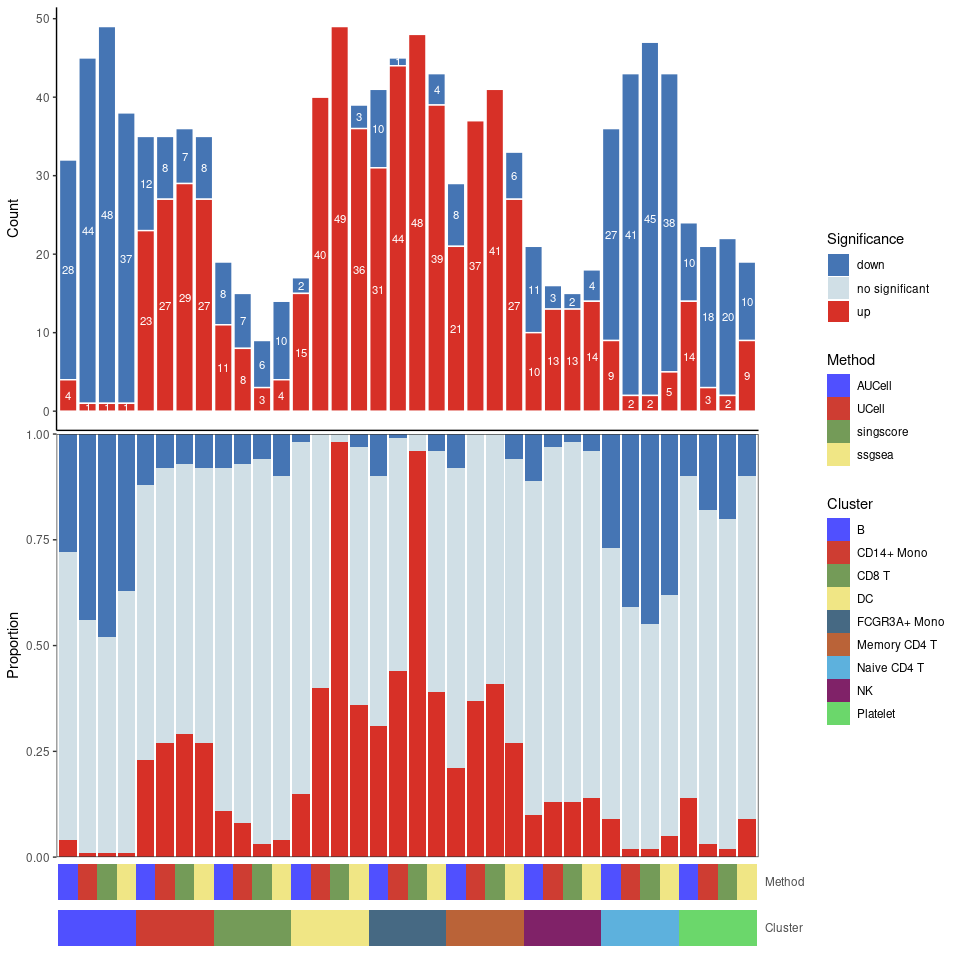
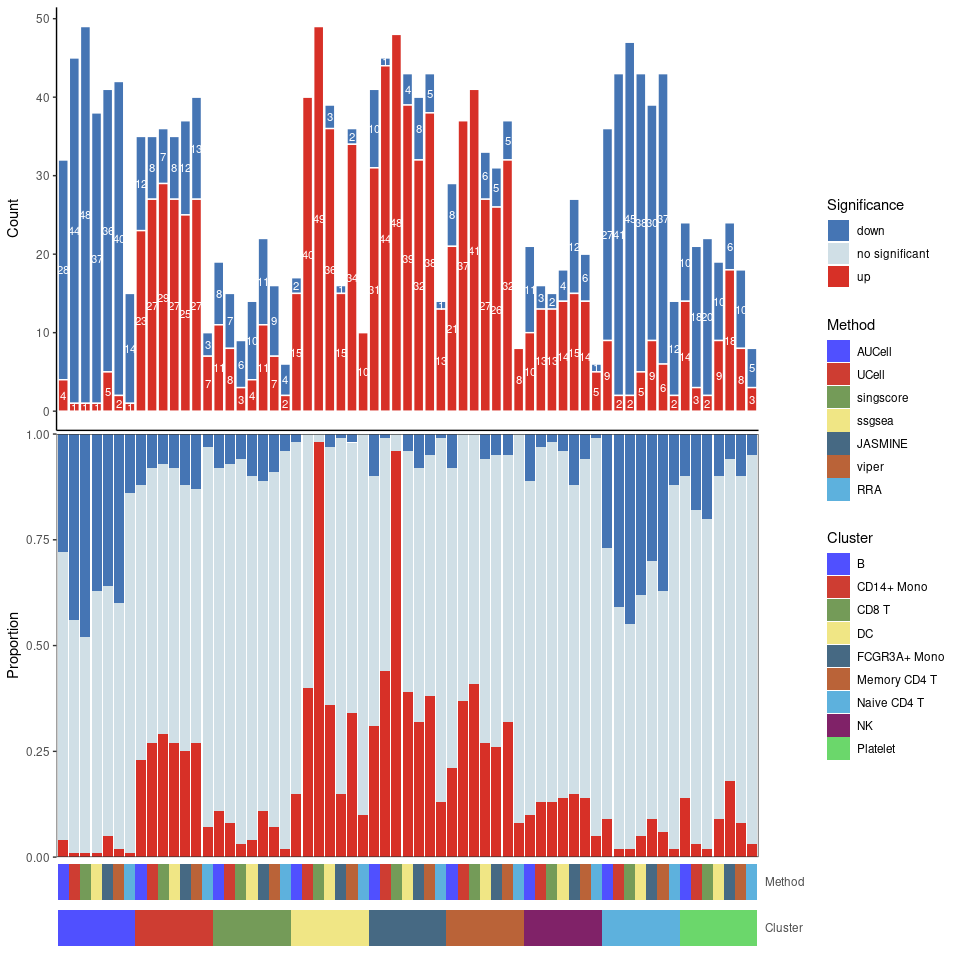
fix the bug of irGSEA.barplot function

Changed region(s): [[0.0625, 0.0312, 0.8125, 0.9375], [0.8438, 0.1875, 0.9688, 0.8125]]

diff --git a/README.md b/README.md
@@ -42,16 +42,9 @@ if (!requireNamespace("VISION", quietly = TRUE)) {
 if (!requireNamespace("gficf", quietly = TRUE)) { 
     devtools::install_github("gambalab/gficf", force =T)
 }
-#> Warning: replacing previous import 'Matrix::tail' by 'utils::tail' when loading
-#> 'gficf'
-#> Warning: replacing previous import 'Matrix::head' by 'utils::head' when loading
-#> 'gficf'
 if (!requireNamespace("SeuratDisk", quietly = TRUE)) { 
     devtools::install_github("mojaveazure/seurat-disk", force =T)
 }
-#> Registered S3 method overwritten by 'SeuratDisk':
-#>   method            from  
-#>   as.sparse.H5Group Seurat
 
 if (!requireNamespace("irGSEA", quietly = TRUE)) { 
     devtools::install_github("chuiqin/irGSEA", force =T)
@@ -264,7 +257,7 @@ methods
 ``` r
 irGSEA.barplot.plot <- irGSEA.barplot(object = result.dge,
                                       method = c("AUCell", "UCell", "singscore",
-                                                 "ssgsea"))
+                                                 "ssgsea", "JASMINE", "viper", "RRA"))
 irGSEA.barplot.plot
 ```
 
